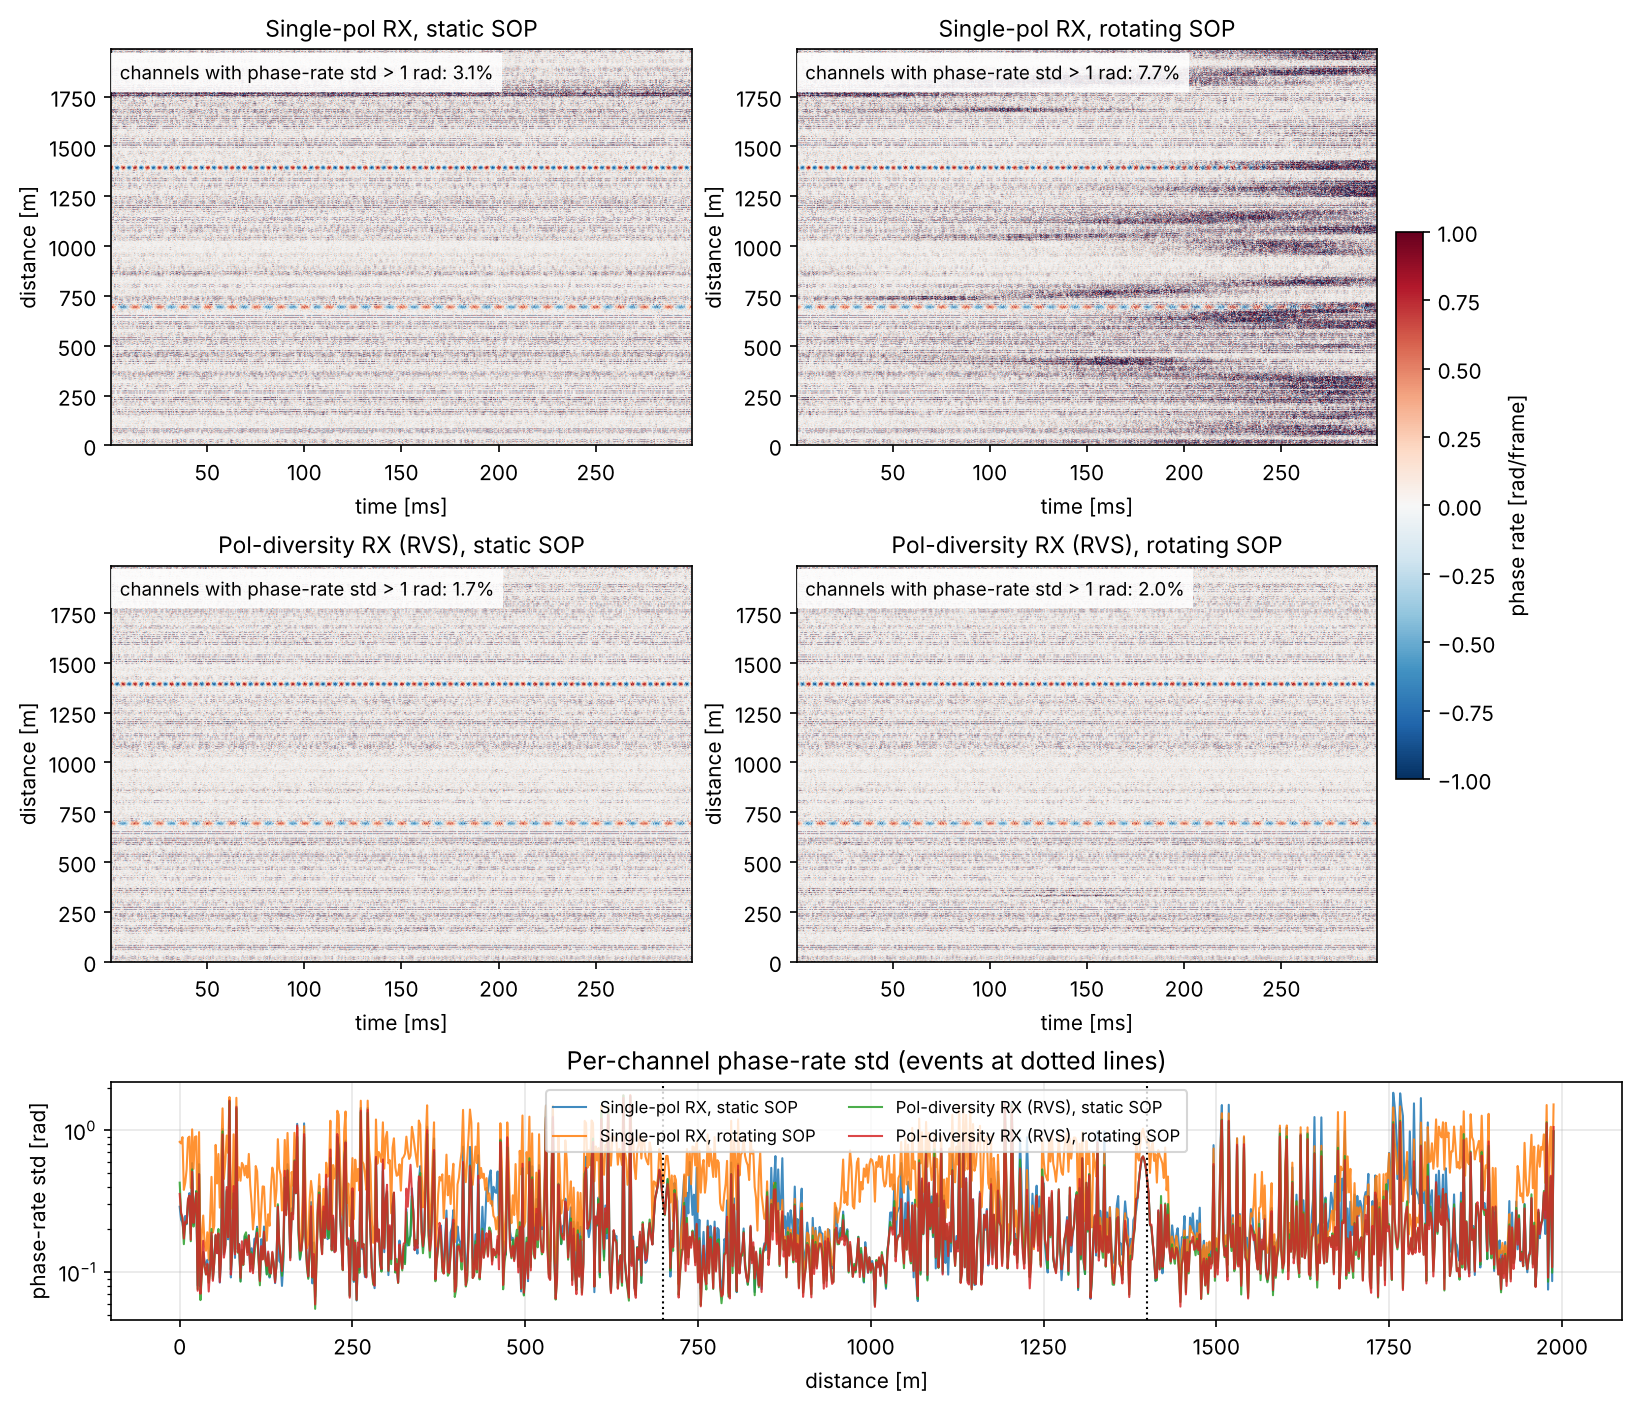
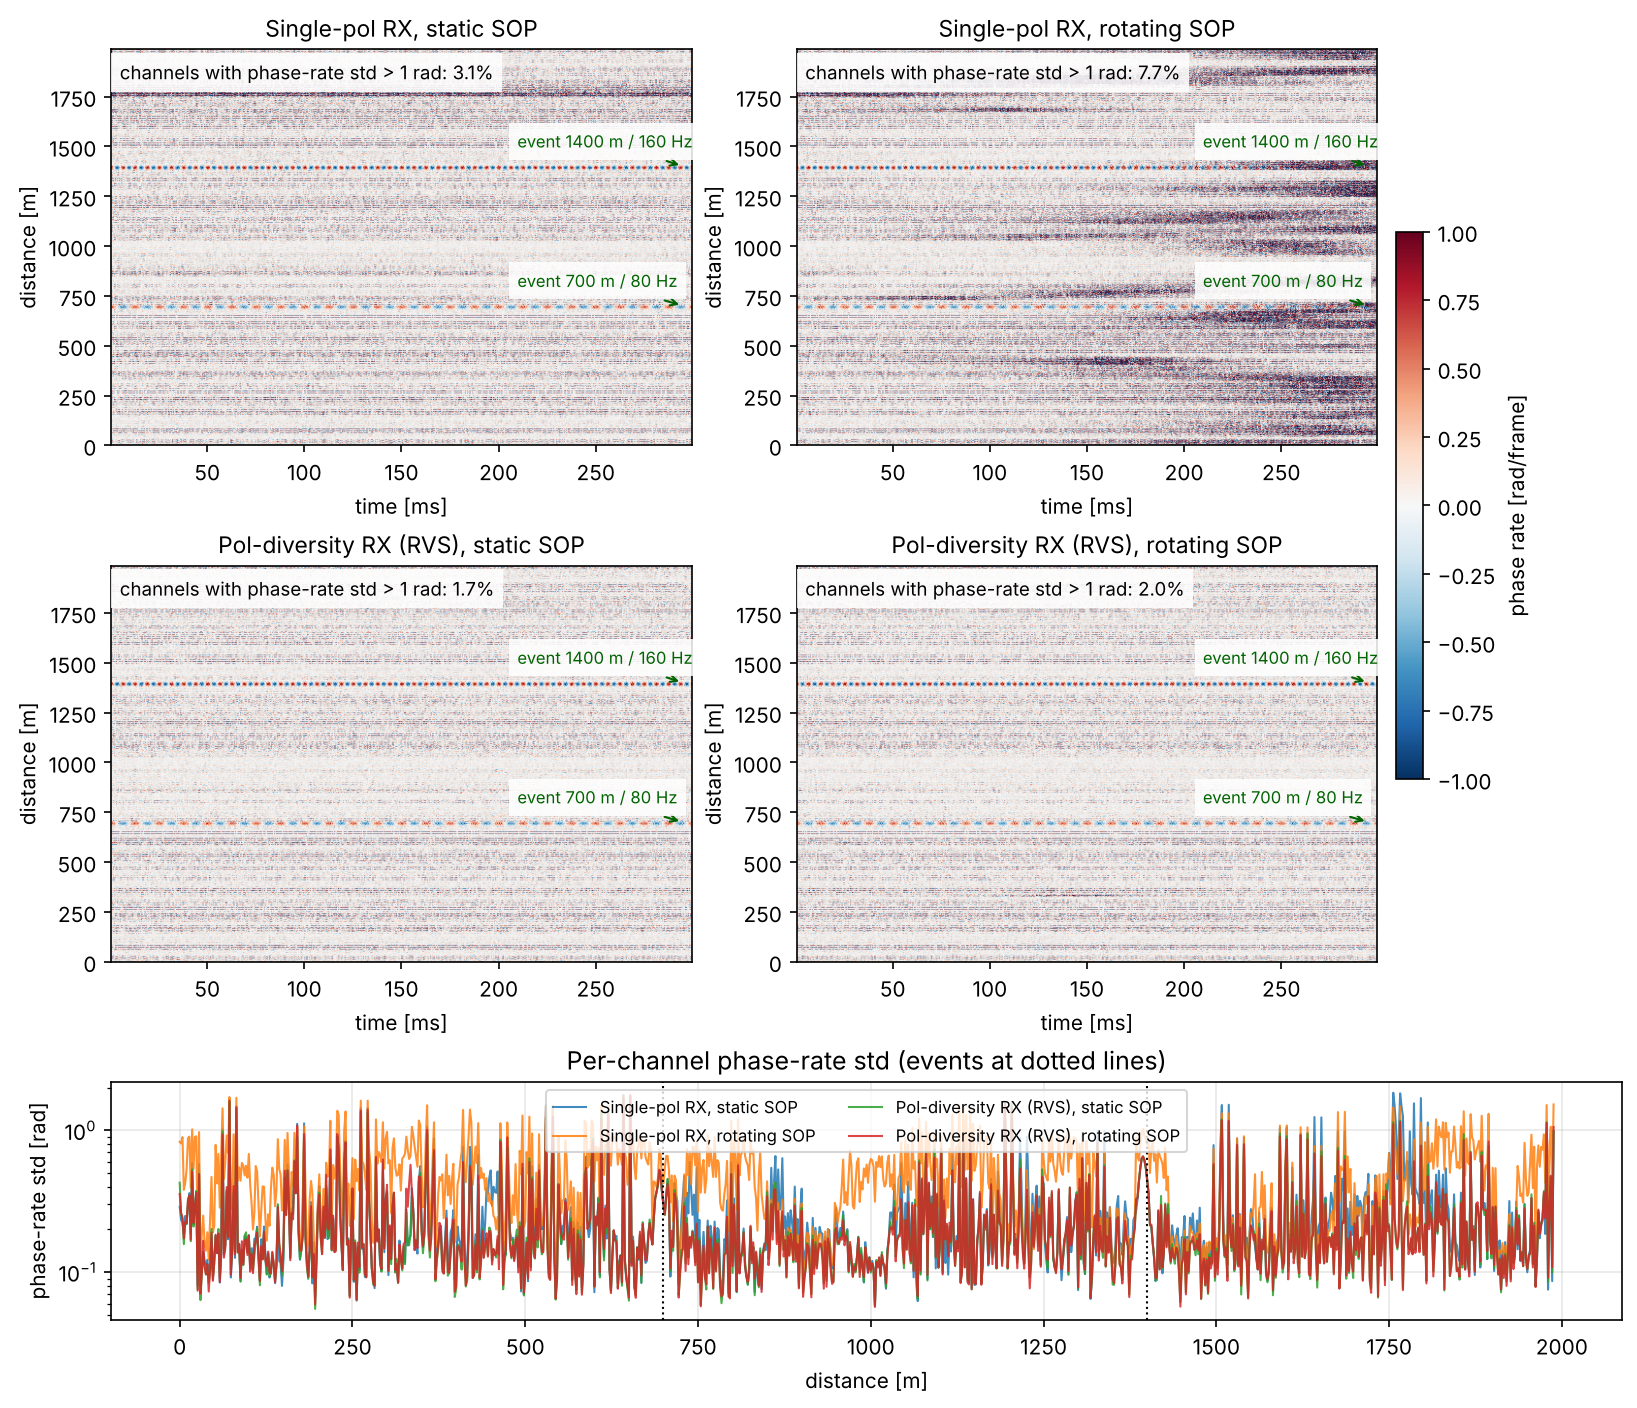
Annotate vibration events on DAS waterfalls
Claude-Session: https://claude.ai/code/session_011iVmDm7Yi46ahHjzSCFXXh

diff --git a/experiments/exp_das_sop.py b/experiments/exp_das_sop.py
@@ -135,6 +135,13 @@ for ax, (title, sop_fn, demod_fn) in zip(axes, scenarios):
     ax.text(0.015, 0.97, f"channels with phase-rate std > 1 rad: {bad:.1f}%",
             transform=ax.transAxes, va="top", fontsize=9,
             bbox=dict(fc="white", alpha=0.85, ec="none"))
+    for z0, _w, freq, _a in EVENTS:
+        ax.annotate(f"event {z0:.0f} m / {freq:.0f} Hz",
+                    xy=(t[-1] * 1e3 * 0.985, z0), xycoords="data",
+                    xytext=(t[-1] * 1e3 * 0.70, z0 + 95), fontsize=8,
+                    color="darkgreen",
+                    bbox=dict(fc="white", alpha=0.85, ec="none"),
+                    arrowprops=dict(arrowstyle="->", color="darkgreen"))
 fig.colorbar(im, ax=axes, shrink=0.6, label="phase rate [rad/frame]",
              location="right", pad=0.012)
 
